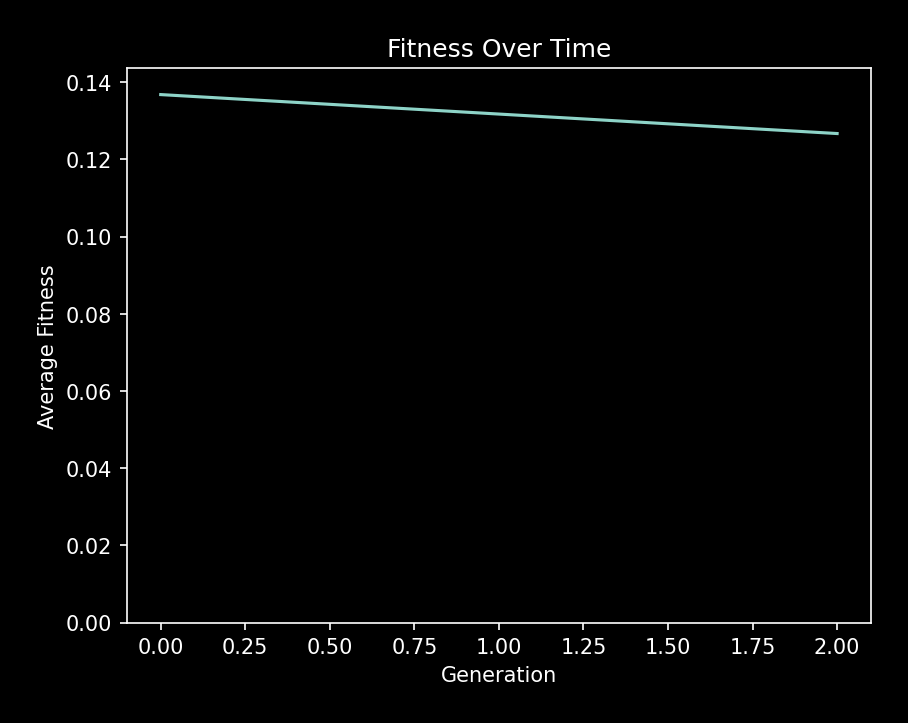
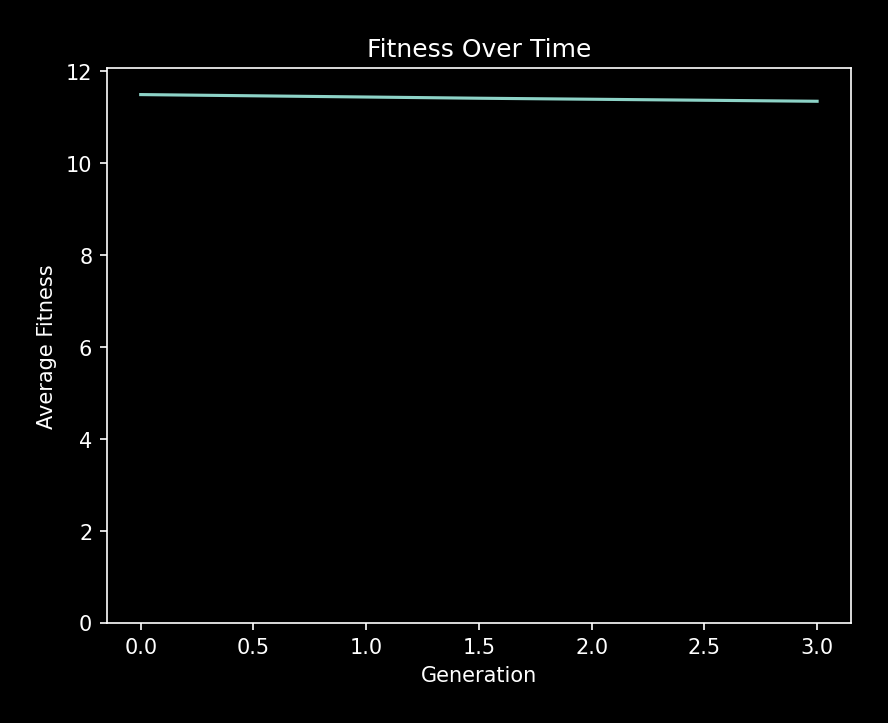
modified graph

diff --git a/driver.py b/driver.py
@@ -45,7 +45,7 @@ class Driver:
         args = parser.parse_args()
         return args
 
-    def make_env(self, gui = False, fast_mode=True):
+    def make_env(self, gui = False, fast_mode=True, verbose=False):
         # change GUI to false here to use direct mode when training!!!
         return SpiderBotSimulator(self.paths['spider-urdf'], gui = gui, fast_mode = fast_mode)
 
@@ -162,13 +162,13 @@ class Driver:
         """
         T = len(filtered_rising_edges[0])
         num_edges = [sum(leg) for leg in filtered_rising_edges]
-        target_time_per_step = 200
+        target_time_per_step = 150
         target_num_steps = T / target_time_per_step
         avg_edges_per_leg = np.mean(num_edges)
         modifier = 1
         if avg_edges_per_leg < target_num_steps:
             modifier = avg_edges_per_leg / target_num_steps
-        return np.linalg.norm((current_pos - initial_pos)[:2]) * modifier
+        return 10 * np.linalg.norm((current_pos - initial_pos)[:2]) * modifier + np.sqrt(min(100, T))
         
     def save_model(self, model) -> None:
         with open(os.path.join(self.paths['models'], self.model_name), 'wb') as f:

diff --git a/graphing.py b/graphing.py
@@ -14,17 +14,21 @@ def live_training_cb(axes, data: list, queue: mp.Queue):
         new_data = queue.get()
         data.append(new_data)
         n = len(data)
-        axes[0].plot(range(n), data, 'r')
+        d1, d2 = zip(*data)
+        axes[0].plot(range(n), d1, 'r')
+        axes[1].plot(range(n), d2, 'g')
         axes[0].set_xlim([0, n + 2])
         axes[1].set_xlim([0, n + 2])
     
 def make_training_fig():
     fig, axes = plt.subplots(2, sharex=True)
     
+    axes[0].set_title('Avg Fitness')
     axes[0].set_ylabel('Fitness')
     axes[0].grid(alpha=0.5)
     
-    axes[1].set_ylabel('Blank')
+    axes[1].set_title('Best Fitness')
+    axes[1].set_ylabel('Fitness')
     axes[1].grid(alpha=0.5)
     
     axes[1].set_xlabel('Generation')

diff --git a/spider_bot/training.py b/spider_bot/training.py
@@ -91,12 +91,12 @@ class Evolution:
         self.checkpoint(best_genome, config)
         avg_fitness = total_fitess / len(genomes)
         self.average_fitnesses.append(avg_fitness)
-        self.graph.send_data(avg_fitness)
+        self.graph.send_data((avg_fitness, best_genome.fitness))
         
         test_env = self.make_env(gui=True, fast_mode=False)
-        sleep(2.5)
+
         best_agent = Agent(neat.nn.FeedForwardNetwork.create(best_genome, config), 30, 12)
-        self.fitness_function(best_agent, test_env)
+        self.fitness_function(best_agent, test_env, verbose=True)
         
         test_env.close()
             

diff --git a/spider_bot/spider_bot_model.py b/spider_bot/spider_bot_model.py
@@ -31,7 +31,7 @@ class SpiderBot:
         self.reset_joints_state(self.middle_joints, np.full(4, -1))
         self.reset_joints_state(self.inner_joints, np.full(4, 1))
         
-        self.change_lateral_friction(self.ankles, np.full(4, 1.5))
+        self.change_lateral_friction(self.ankles, np.full(4, 2))
         self.set_max_joint_velocities(self.joints_flat + self.ankles, np.full(12, self.nominal_joint_velocity))
         
         #self.debug_joints()
